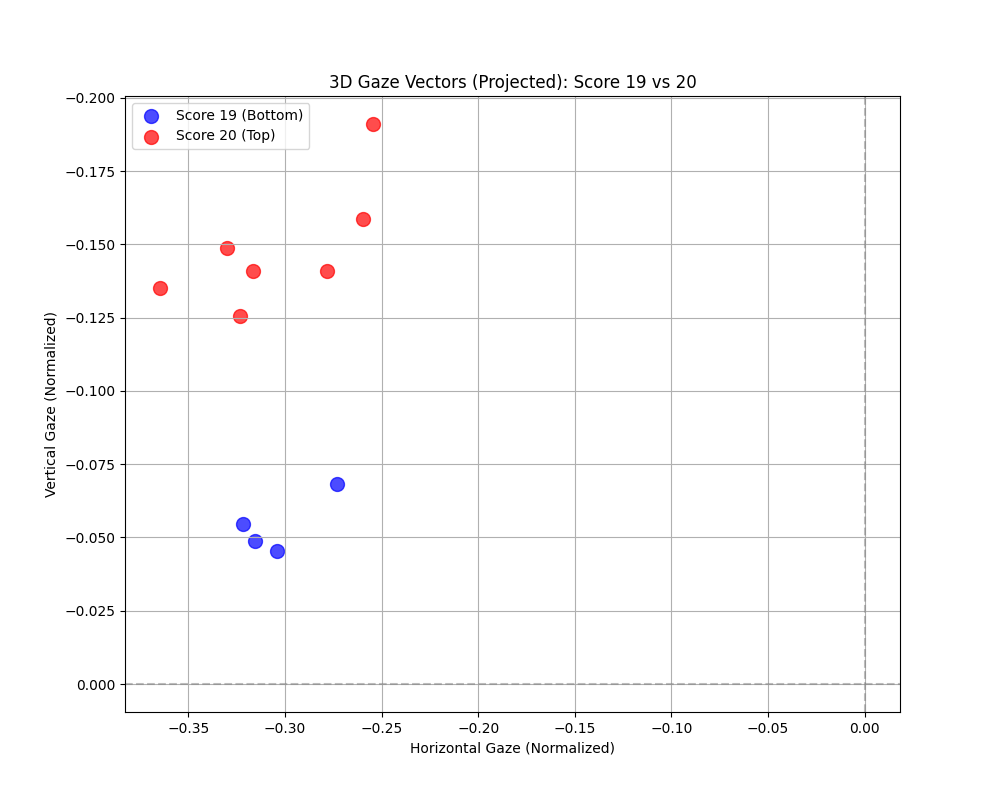
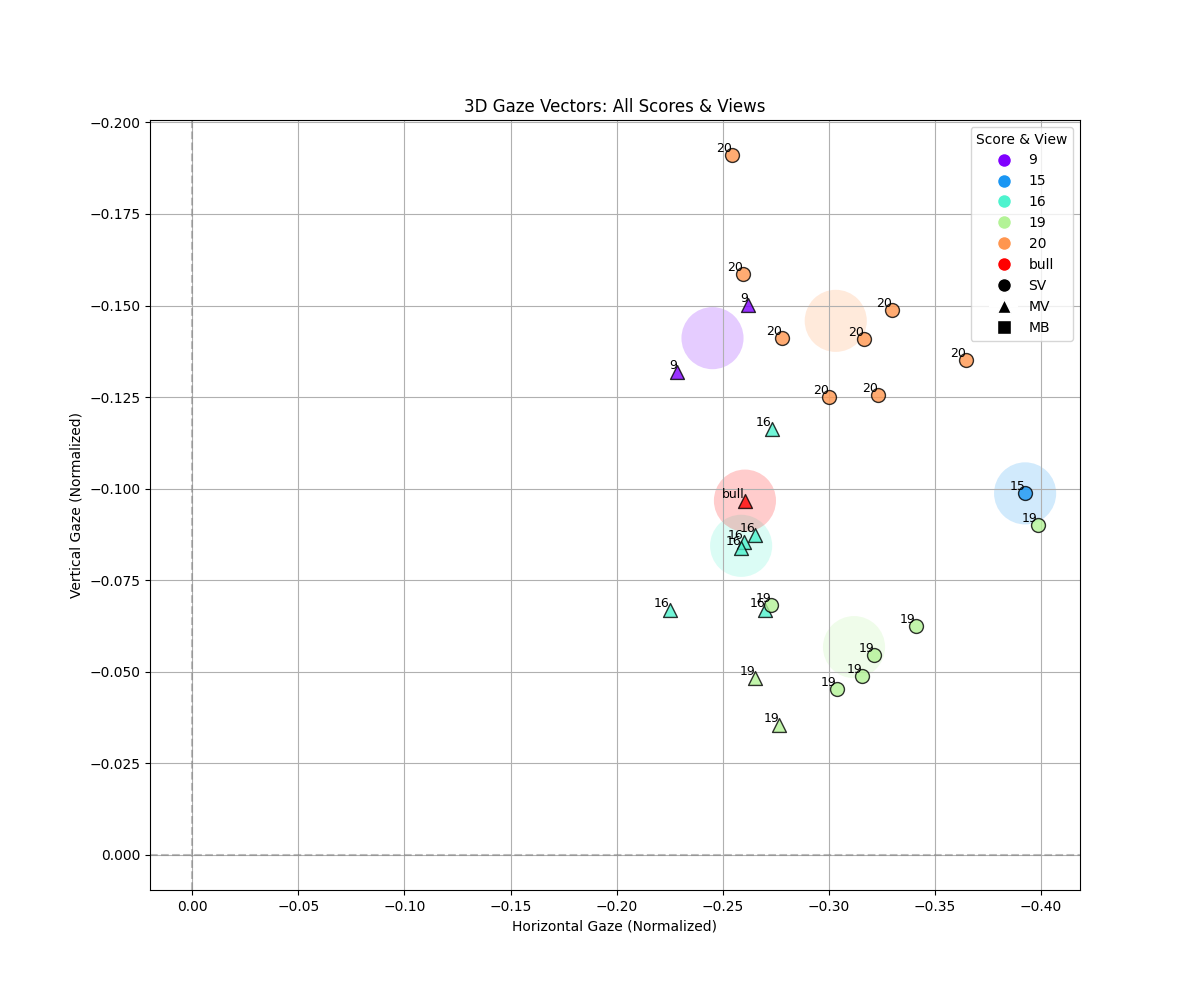
add more test numbers

diff --git a/plot_gaze.py b/plot_gaze.py
@@ -1,37 +1,45 @@
 
 import matplotlib.pyplot as plt
+import matplotlib.cm as cm
 import os
 import glob
 import numpy as np
 from gaze_tracking import process_image, INPUT_DIR
 
-def parse_score(filename):
-    # Expected format: sv_a_{score}-{index}.png
+def parse_filename(filename):
+    # Formats: 
+    # sv_a_20-1.png
+    # mv_a_10-1.png
+    # mb_a_bull-1.png
     try:
         parts = filename.split('_')
-        score_part = parts[2] # 19-1.png
-        score = int(score_part.split('-')[0])
-        return score
+        view = parts[0].lower() # sv, mv, mb
+        # player = parts[1] # 'a'
+        score_part = parts[2]
+        score_label = score_part.split('-')[0] # 20, 19, bull
+        return view, score_label
     except Exception as e:
         print(f"Skipping {filename}: {e}")
-        return None
+        return None, None
 
 def main():
-    image_files = glob.glob(os.path.join(INPUT_DIR, "sv_a_*.png"))
+    image_files = glob.glob(os.path.join(INPUT_DIR, "*"))
     
-    data_19 = []
-    data_20 = []
+    data = [] # List of (view, score, gaze_x, gaze_y)
     
     print(f"Found {len(image_files)} images for analysis.")
     
     for img_path in image_files:
-        filename = os.path.basename(img_path)
-        score = parse_score(filename)
-        
-        if score not in [19, 20]:
+        if not img_path.lower().endswith(('.png', '.jpg', '.jpeg')):
             continue
             
-        print(f"Processing {filename} (Score: {score})...")
+        filename = os.path.basename(img_path)
+        view, score = parse_filename(filename)
+        
+        if view is None:
+            continue
+            
+        print(f"Processing {filename} (View: {view}, Score: {score})...")
         result = process_image(img_path, save_output=False)
         
         if result is None:
@@ -43,48 +51,88 @@ def main():
         # Average gaze vector (3D)
         avg_gaze = (left_gaze + right_gaze) / 2
         
-        # In MediaPipe:
-        # +y is down (image coordinates)
-        # +x is right
-        # +z is into the screen (depth)
-        
-        # If looking UP (at 20), y component should be smaller (more negative or less positive) 
-        # relative to looking DOWN (at 19).
-        # Actually, since it's a direction vector:
-        # Looking UP -> Y component is negative (pointing to top of image)
-        # Looking DOWN -> Y component is positive (pointing to bottom of image)
-        
-        # We expect Score 20 (Top) -> Lower Y value (more negative)
-        # We expect Score 19 (Bottom) -> Higher Y value (more positive)
-        
         vertical_gaze = avg_gaze[1] 
         horizontal_gaze = avg_gaze[0]
         
-        if score == 19:
-            data_19.append((horizontal_gaze, vertical_gaze))
-        elif score == 20:
-            data_20.append((horizontal_gaze, vertical_gaze))
+        data.append({
+            'view': view,
+            'score': score,
+            'x': horizontal_gaze,
+            'y': vertical_gaze
+        })
 
     # Plotting
-    plt.figure(figsize=(10, 8))
+    plt.figure(figsize=(12, 10))
     
-    if data_19:
-        x19, y19 = zip(*data_19)
-        plt.scatter(x19, y19, c='blue', label='Score 19 (Bottom)', s=100, alpha=0.7)
+    # Unique scores for coloring
+    scores = sorted(list(set(d['score'] for d in data)))
+    
+    # Custom sort to put numbers in order and bull at end?
+    def sort_key(s):
+        if s.isdigit(): return int(s)
+        return 100 # Put Bull/others at end
+    scores.sort(key=sort_key)
+    
+    # Colormap
+    colors = cm.rainbow(np.linspace(0, 1, len(scores)))
+    score_color_map = {score: color for score, color in zip(scores, colors)}
+    
+    # Markers for views
+    view_markers = {
+        'sv': 'o', # Circle
+        'mv': '^', # Triangle Up
+        'mb': 's', # Square
+        'default': 'x'
+    }
+    
+    # Plot points
+    for d in data:
+        view = d['view']
+        score = d['score']
+        x = d['x']
+        y = d['y']
         
-    if data_20:
-        x20, y20 = zip(*data_20)
-        plt.scatter(x20, y20, c='red', label='Score 20 (Top)', s=100, alpha=0.7)
+        marker = view_markers.get(view, 'x')
+        color = score_color_map[score]
         
-    plt.title("3D Gaze Vectors (Projected): Score 19 vs 20")
+        plt.scatter(x, y, color=color, marker=marker, s=100, alpha=0.8, edgecolor='k', zorder=3)
+        plt.text(x, y, score, fontsize=9, ha='right', va='bottom', zorder=4)
+
+    # Plot Average Blobs
+    for score in scores:
+        score_data = [d for d in data if d['score'] == score]
+        if not score_data:
+            continue
+            
+        avg_x = np.mean([d['x'] for d in score_data])
+        avg_y = np.mean([d['y'] for d in score_data])
+        color = score_color_map[score]
+        
+        # Plot "blob"
+        plt.scatter(avg_x, avg_y, color=color, s=2000, alpha=0.2, marker='o', edgecolor='none', zorder=1)
+
+    # Create Legend manually
+    # Score Legend
+    from matplotlib.lines import Line2D
+    score_handles = [Line2D([0], [0], marker='o', color='w', markerfacecolor=c, markersize=10, label=s) for s, c in score_color_map.items()]
+    view_handles = [Line2D([0], [0], marker=m, color='w', markerfacecolor='k', markersize=10, label=v.upper()) for v, m in view_markers.items() if v != 'default']
+    
+    # Combined legend
+    plt.legend(handles=score_handles + view_handles, title="Score & View", loc='best')
+
+    plt.title("3D Gaze Vectors: All Scores & Views")
     plt.xlabel("Horizontal Gaze (Normalized)")
     plt.ylabel("Vertical Gaze (Normalized)")
     plt.axhline(0, color='gray', linestyle='--', alpha=0.5)
     plt.axvline(0, color='gray', linestyle='--', alpha=0.5)
-    plt.gca().invert_yaxis() # Invert Y axis so Negative (Up) is Top, Positive (Down) is Bottom
-    plt.legend()
-    plt.grid(True)
-    plt.legend()
+    plt.gca().invert_yaxis() # Invert Y axis so Negative (Up) is Top
+    plt.gca().invert_xaxis() # Invert X axis so Positive (Image Right/Player Left) becomes Left on plot?
+    # Logic: Player looks Left -> Eyes move Image Right (+X) -> We want this to be Left on Plot (-X direction).
+    # So we need to Invert X axis? 
+    # Normal Plot: -X is Left, +X is Right.
+    # Data: +X (Look Left).
+    # We want +X data to be on Left.
+    # So we invert X axis: Positive is Left, Negative is Right.
     plt.grid(True)
     
     output_path = os.path.join(os.path.dirname(INPUT_DIR), "gaze_plot.png")
